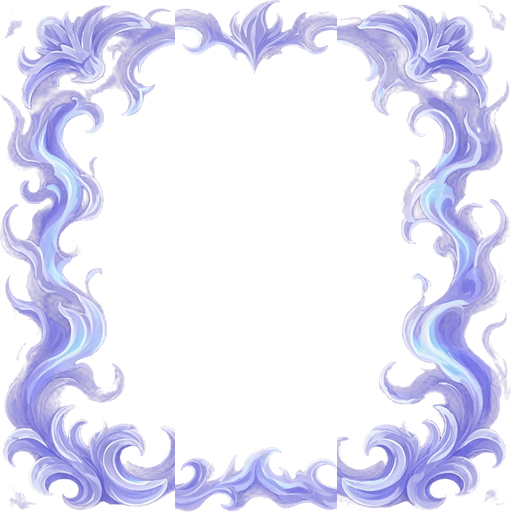
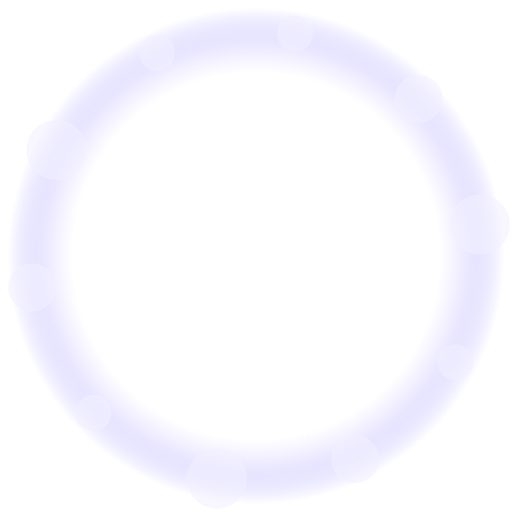
Grafik-Paket 4 (Smettbo): weiche Rahmen, Weg-/Cloud-/Rad-Symbole, Splitter, Bannsiegel; Einbau folgt

diff --git a/docs/grafik-paket4-einbau.md b/docs/grafik-paket4-einbau.md
@@ -1,0 +1,76 @@
+---
+datum: 2026-11-19
+quelle: Smettbo (Grafik), Repo 2fast2hunter-ai/velunor main @ c2f8e8c (frischer Clone /tmp/velunor-p4), grafik-gesamtliste.md Zeilen 11, 18, 21, 28, 29, 35, 42
+status: Grafiken fertig, Einbau offen (Porygon, 1 PR)
+---
+
+# Velunor Grafik-Paket 4 – Kampf & Sammeln: Einbau
+
+Alles per Code gezeichnet (`assets/raw_src/paket4/draw_paket4.py`, nutzt `raw_src/home/softlib.py`; Stil wie `icons_soft/draw_types.py`: Umriss #4a2c17, Verlauf, Glanzlicht, Rim-Light). Kein GenerateImage nötig. Kein Ball-/Fang-Motiv (Rahmen haben nie ein waagerechtes Band).
+Ablage → Repo: `assets/frames/*` → `public/assets/frames/`, `assets/fx/fx_bannsiegel*` → `public/assets/fx/`, **`assets/ui/webp/<id>.webp` → `public/assets/ui/<id>.webp`** (flach, wie die übrigen ui-Icons). `assets/ui/<id>.png` sind nur die 128-px-Quellen.
+Vorschau `assets/preview_paket4.jpg`. Alte Dateien gesichert in `assets/raw_src/paket4/old/`.
+
+## Dateien
+
+| Key | Dateien | Format |
+|---|---|---|
+| frames/rarity_0…9 | rarity_N.png, rarity_N_256.png (gleiche Namen wie bisher) | 512/256 RGBA, Ring, Mitte transparent (Innenradius 0,40 der Kante) |
+| frames/ghost_overlay | ghost_overlay.png, _256.png (gleiche Namen) | 512/256, weicher lila Schimmerring |
+| Weg-Knoten | ui/node_{wild,trainer,find,spring,guardian}.webp | 128 |
+| Cloud-Status | ui/cloud_{online,offline,sync}.webp | 128 |
+| Rad-Symbole | ui/wheel_{stern,mond,krone,blatt,tropfen,funke}.webp + @2x.webp | 128 / 256 |
+| Splitter | ui/shard.webp, ui/shard_64.webp | 128 / 64 |
+| Bannsiegel | fx/fx_bannsiegel.png, _256.png, fx/fx_bannsiegel_add.jpg (gleiche Namen/Formate) | 512/256 RGBA, 512 auf Schwarz für plus-lighter |
+
+## Code-Änderungen
+
+1. **Seltenheitsrahmen in `portrait()`** – `src/adventure/view.ts:245-248` ersetzen:
+   ```ts
+   function portrait(speciesId: string, large = false, extra = ''): string {
+     const rarity = species(speciesId).baseRarity
+     const color = rarityInfo(rarity).color
+     const sil = extra.split(' ').includes('sil')
+     const frame = sil ? `frames/ghost_overlay${large ? '' : '_256'}.png` : `frames/rarity_${rarity}${large ? '' : '_256'}.png`
+     return `<span class="pframe" style="--rarity:${color};--frame:url('${art(frame)}')"><img class="portrait ${extra}" src="${monsterArt(speciesId, large)}" alt=""/></span>`
+   }
+   ```
+   (Unentdeckte `sil`-Monster bekommen den neutralen Geisterring, damit die Seltenheit nicht verraten wird und der Rahmen nicht mit schwarz gefiltert wird.)
+   - `view.ts:880` (`.replace('style="', 'style="opacity:.25;')`) trifft jetzt das `style` der Hülle → blendet Rahmen + Bild gemeinsam ab, passt.
+   - CSS `src/adventure/adventure.css:131-137`: `.portrait` aus der Regel nehmen (`.hero, .pick img` behalten den alten Rand) und neu:
+     ```css
+     .pframe { position: relative; display: inline-grid; place-items: center; border-radius: 50%; flex: 0 0 auto; }
+     .pframe::after { content: ''; position: absolute; inset: 0; background: var(--frame) center / 100% 100% no-repeat; pointer-events: none; }
+     .portrait { border-radius: 50%; border: 0; padding: 12%; box-sizing: border-box;
+       background: radial-gradient(circle at 50% 40%, #2a3c62, #10182c 62%); box-shadow: var(--shadow-soft); }
+     ```
+   - Prüfen: Selektoren, die `.portrait` als direktes Kind erwarten (z. B. `.m-plate > img`, `.prize-line img`, `.arena-slot img`) – mit `rg -n "portrait" src/adventure/adventure.css` gegenchecken.
+   - `src/artLayout.ts:14-17` `FRAME_FIT` (6/9 = 0.58): alle neuen Ringe haben denselben Innenradius → Einträge löschen, Standard 0.7 gilt (nur Legacy-Phaser-Loader).
+   - Dateinamen unverändert → `artManifest.json` und `artLayout.test.ts:32-33, 80-86` bleiben grün.
+2. **Weg-Knoten** – `view.ts:278-284` `icon()`:
+   ```ts
+   function icon(kind: NodeKind): string {
+     return `<img class="node-ico" src="${art(`ui/node_${kind}.webp`)}" alt=""/>`
+   }
+   ```
+   CSS `adventure.css:237` `.node svg` → `.node img` (22 px), `adventure.css:1101` `.node svg` → `.node img` (28 px). `.node.is-here` setzt `color` – für Bilder wirkungslos, Hintergrund #f0c14a bleibt.
+3. **Cloud-Status** – `view.ts:316-323` `cloudGlyph()`:
+   ```ts
+   function cloudGlyph(kind: 'online' | 'offline' | 'sync'): string {
+     return `<img src="${art(`ui/cloud_${kind}.webp`)}" alt="" aria-hidden="true"/>`
+   }
+   ```
+   Aufrufer `view.ts:327-329` und `1255` bleiben. CSS `adventure.css:1630` `.cloud-chip svg, .cloud-mark svg` → `… img` (Chip 48 px, Mark 40 px empfohlen).
+4. **Rad-Symbole** – `view.ts:965-972` `glyph()`:
+   ```ts
+   function glyph(id: SymbolId): string {
+     return `<img class="reel-sym" src="${art(`ui/wheel_${id}.webp`)}" srcset="${art(`ui/wheel_${id}.webp`)} 1x, ${art(`ui/wheel_${id}@2x.webp`)} 2x" width="72" height="72" alt=""/>`
+   }
+   ```
+   Aufruf `view.ts:1062` unverändert.
+5. **Splitter-Icon** – `view.ts:2113`:
+   ```ts
+   <p>${tr(save, 'chest.star', { n: save.stars[sp.id] ?? 0 })} · <img class="shard-ico" src="${art('ui/shard_64.webp')}" alt="${esc(tr(save, 'chest.shards'))}" width="28" height="28"/> ${save.shards[sp.id] ?? 0}</p>
+   ```
+   (falls es keinen i18n-Key `chest.shards` gibt: `alt="Splitter"`). CSS: `.shard-ico { vertical-align: -6px; }`. Die Turm-Zeile `view.ts:1549` (shard-Glyph) gehört zu Paket 6 und bleibt.
+6. **Bannsiegel** – keine Code-Änderung (`const.ts:35-36` gleiche Pfade). Das neue Siegel ist eine runde Blüte mit Perlenring, ohne Goldfiligran; `.seal` (adventure.css:512) und `.chest-seal` (1564) bleiben.
+7. **Alte Rahmen entfernen**: werden durch Überschreiben ersetzt (gleiche Namen); keine Löschung nötig.
